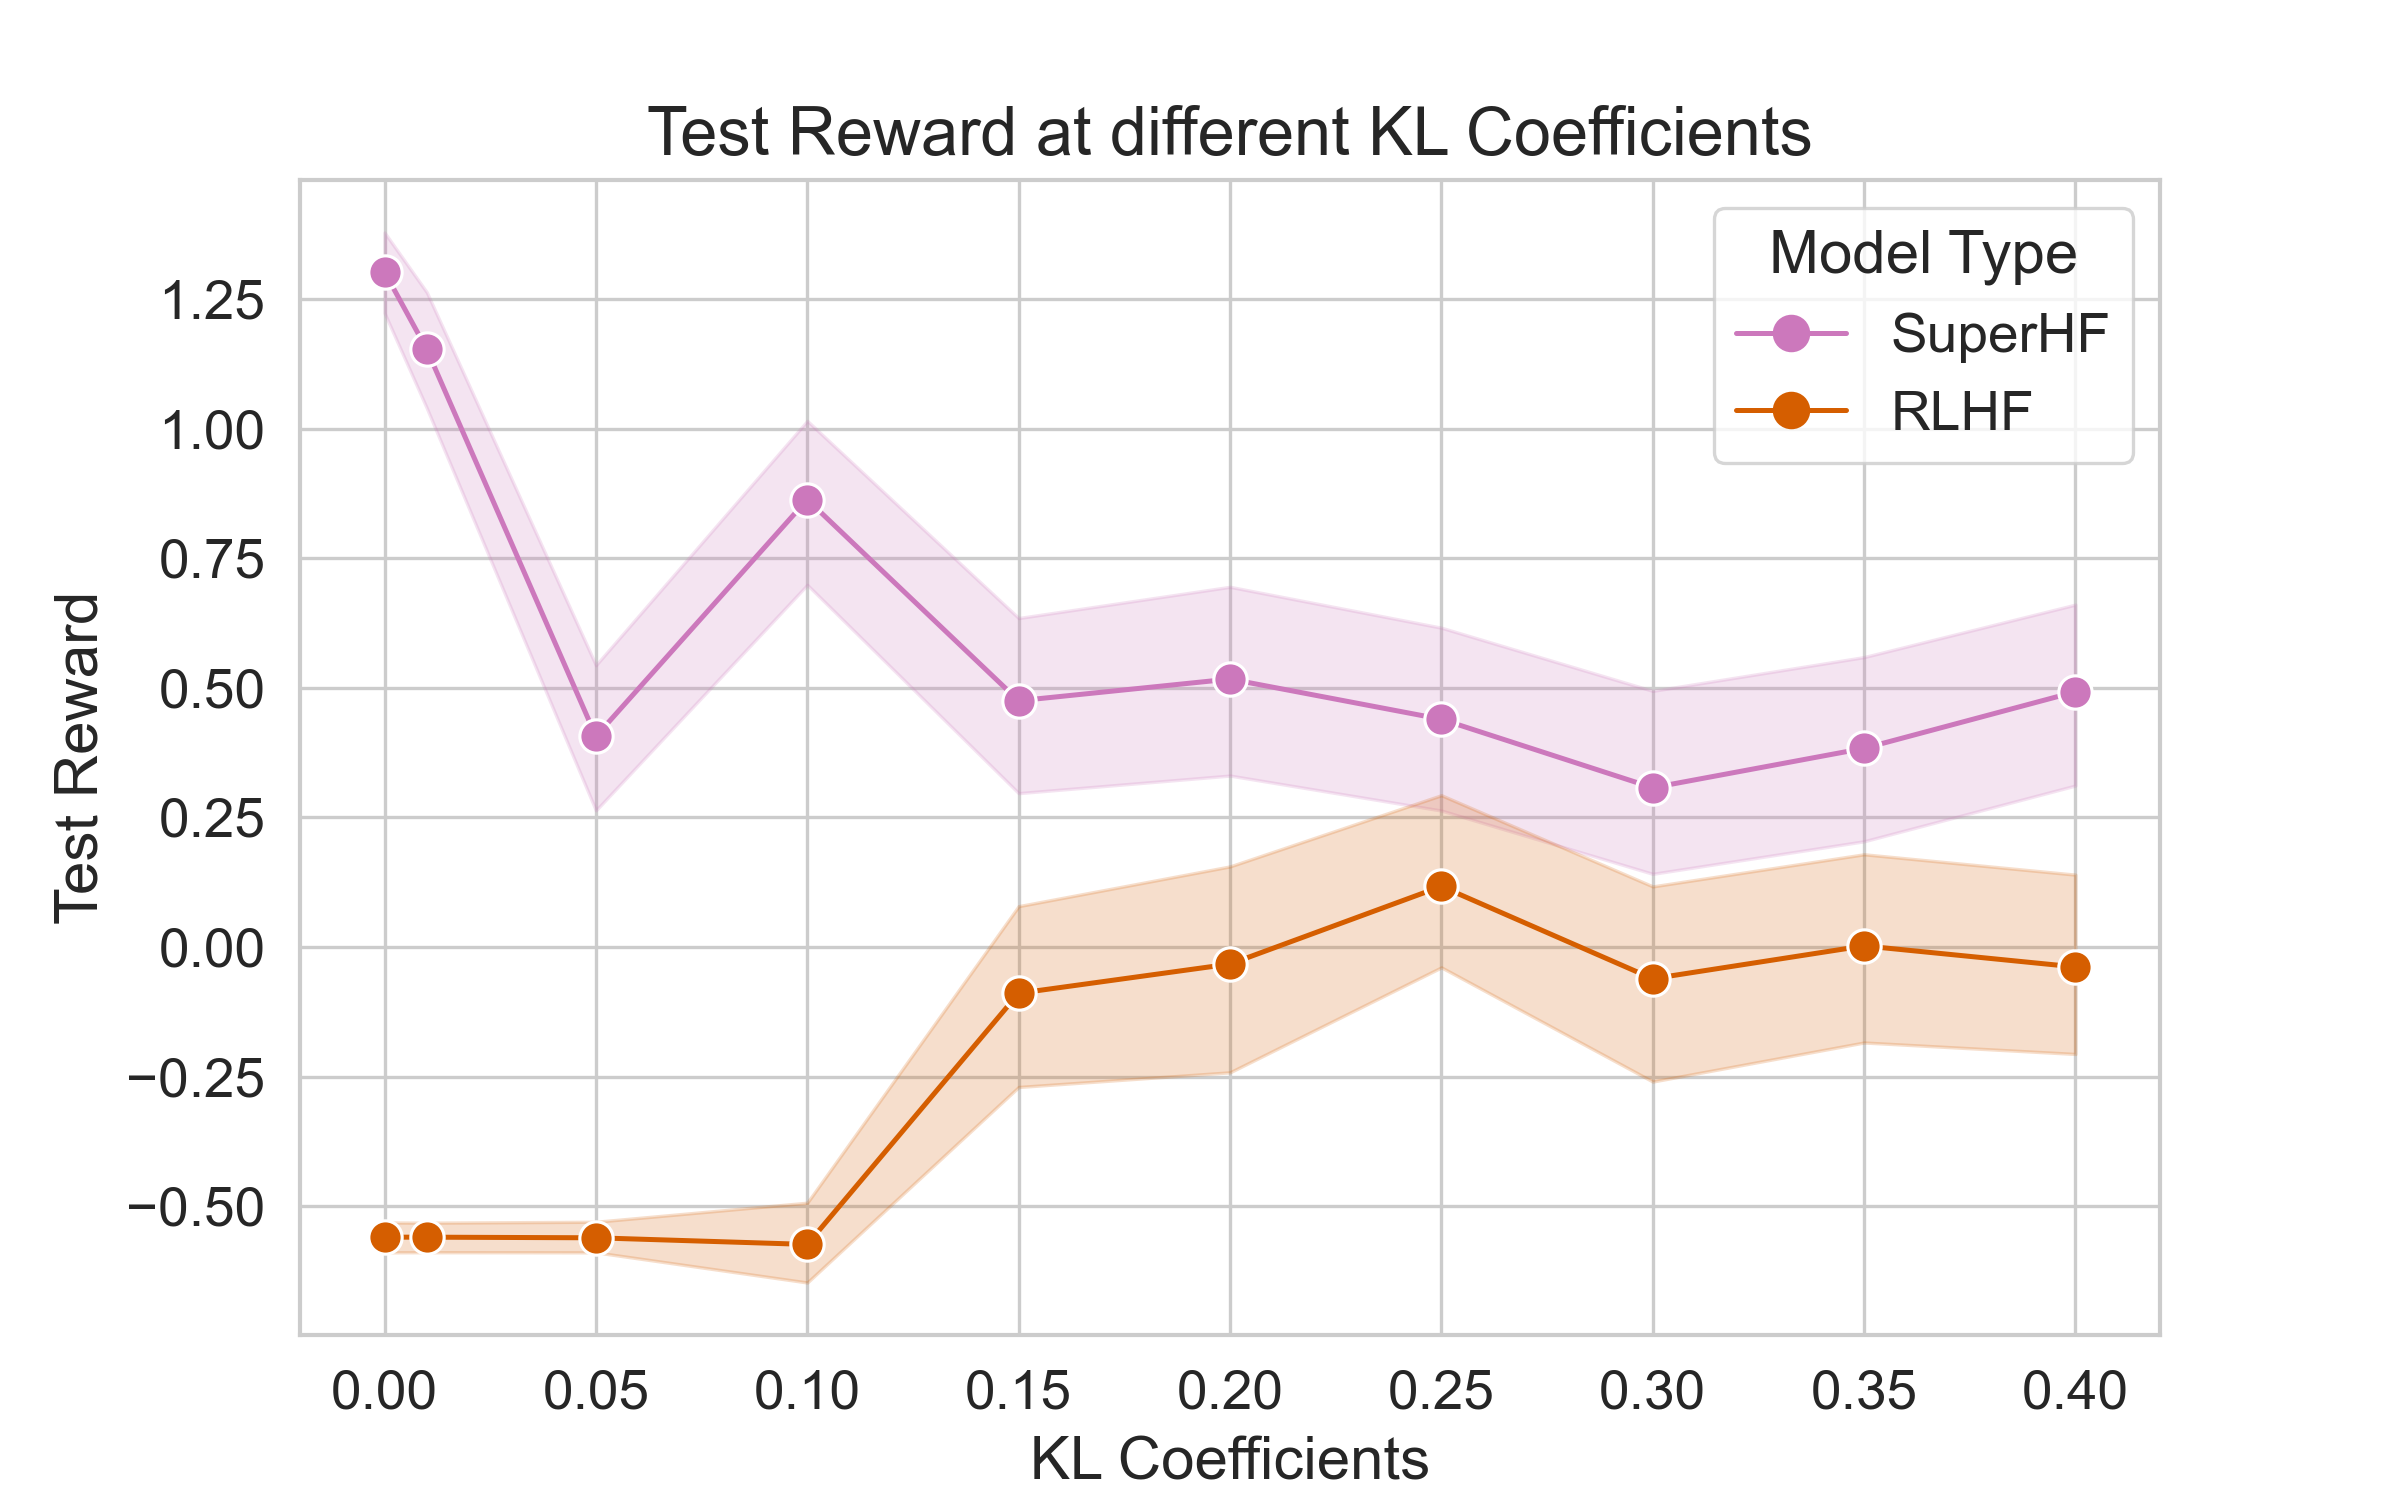
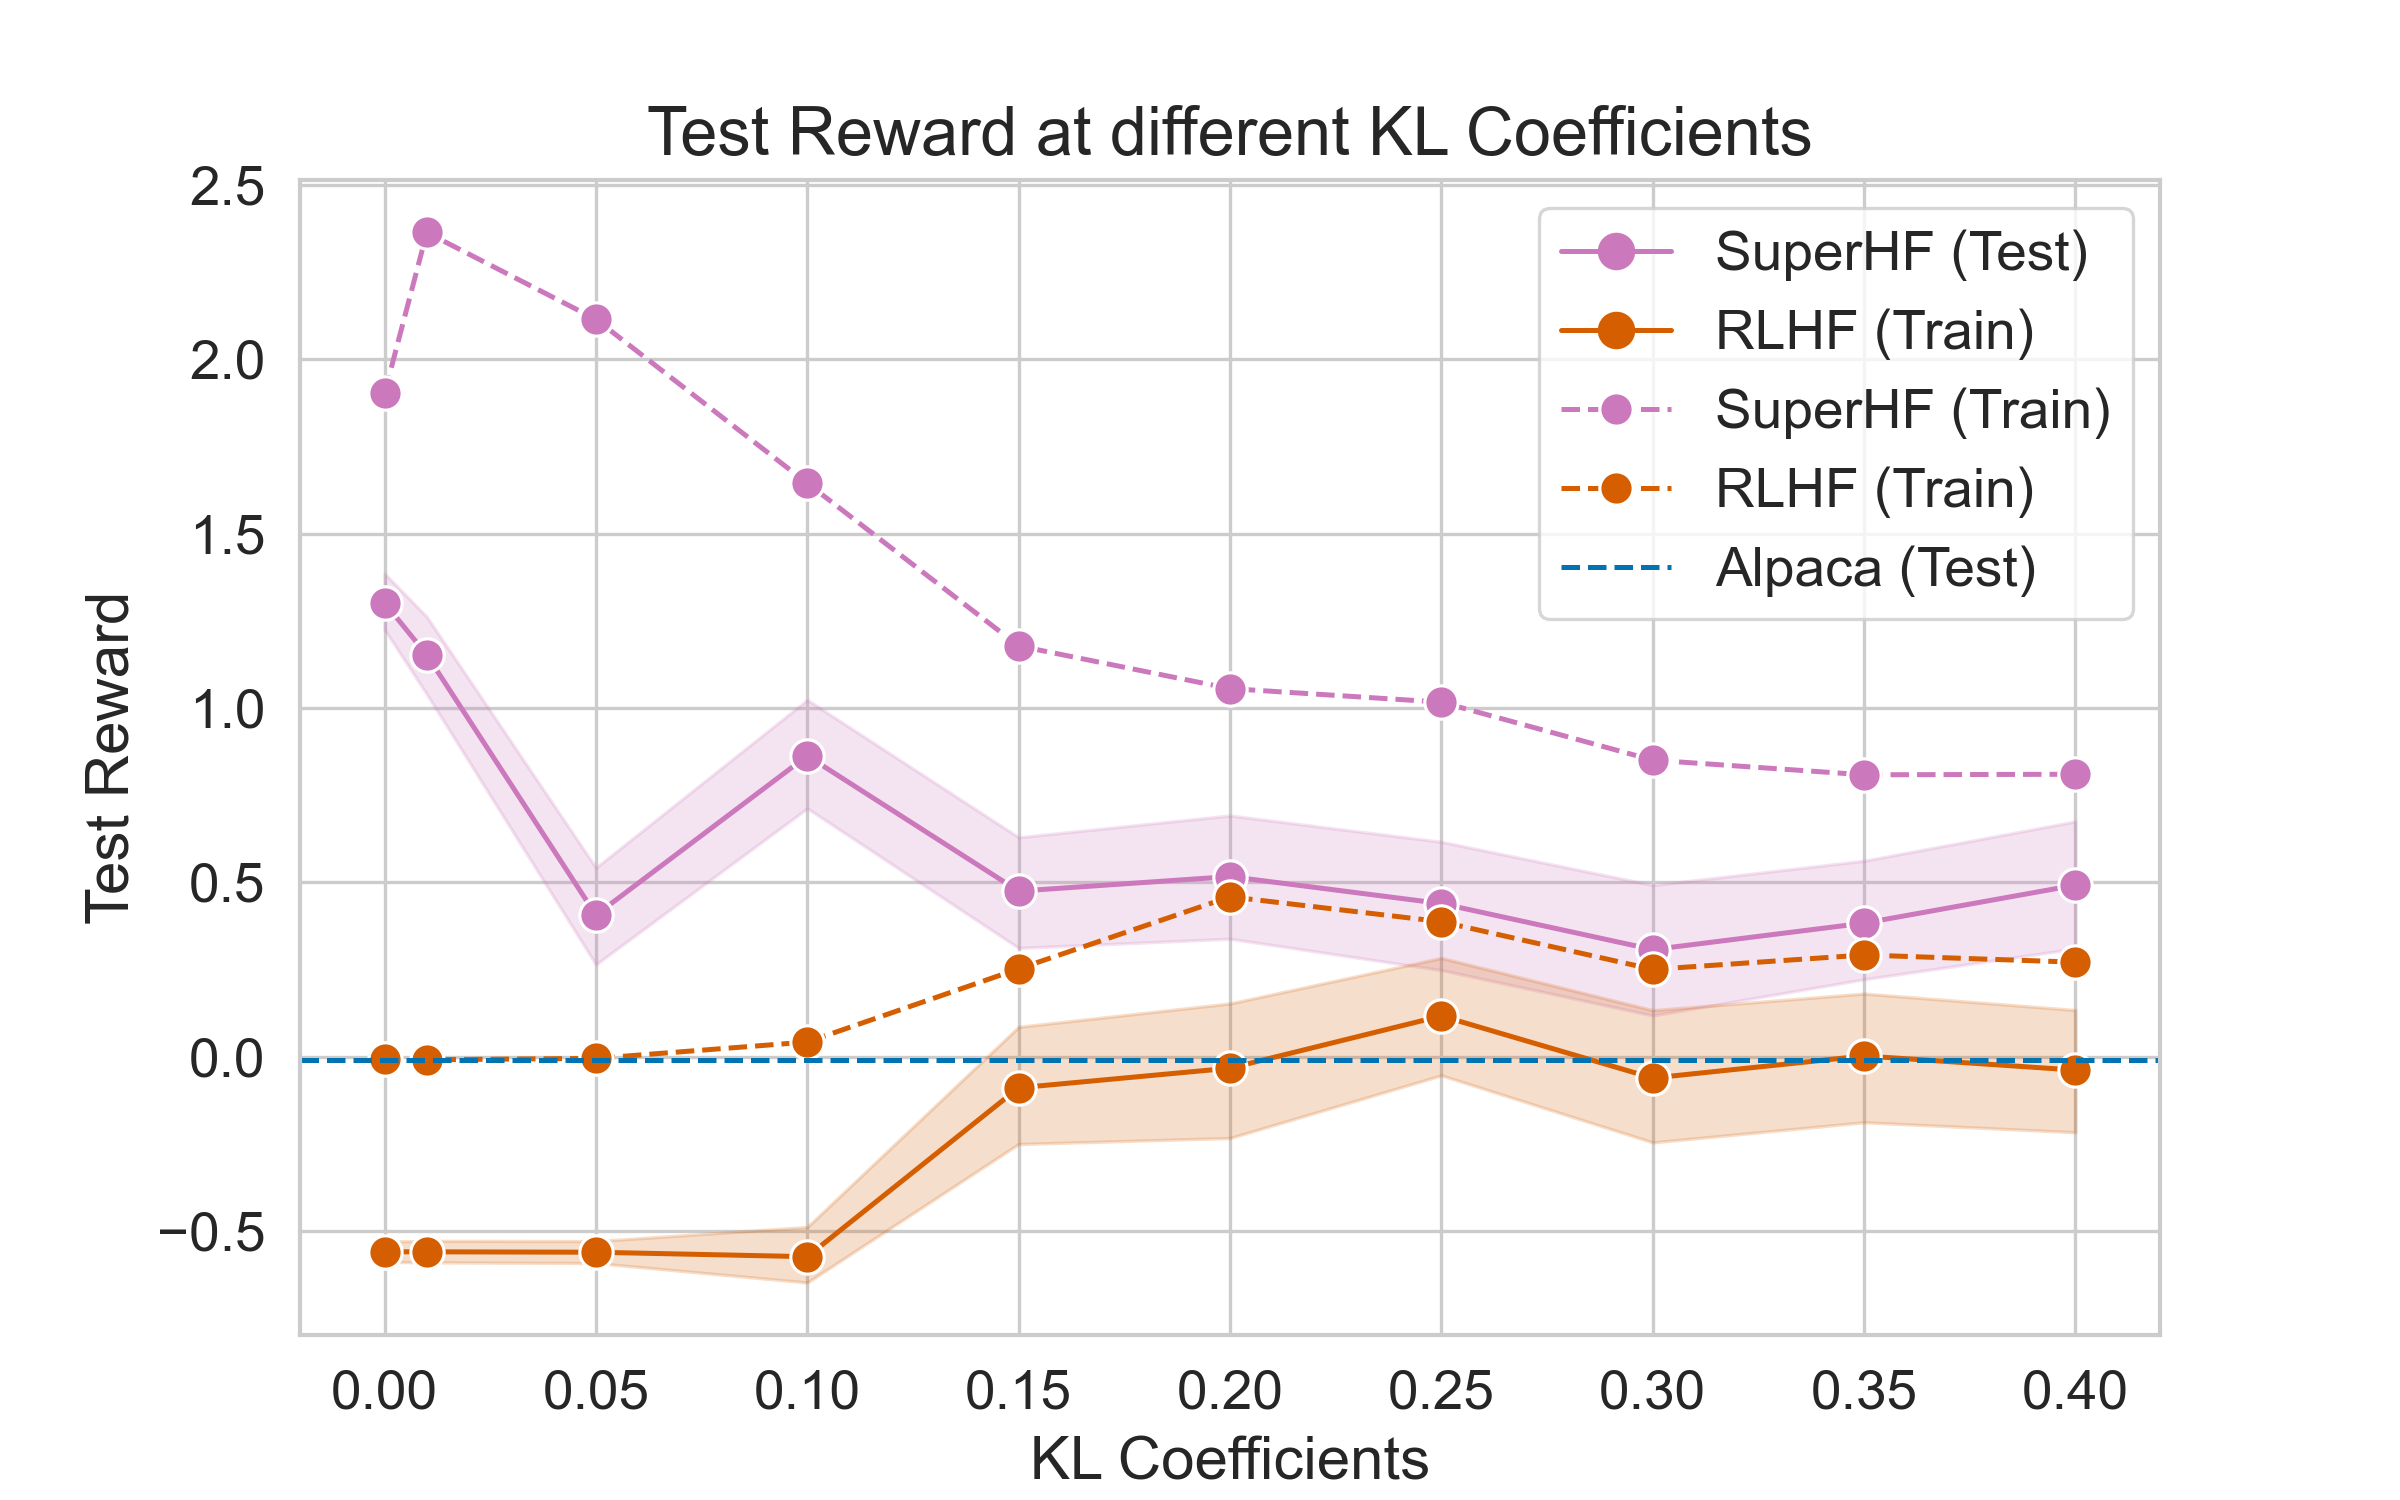
KL chart add alpaca and train rewards

diff --git a/charts/kl_coefficient.py b/charts/kl_coefficient.py
@@ -9,6 +9,8 @@ from chart_utils import (
     model_type_to_palette_color,
     get_test_scores,
     save_plot,
+    normalize_train_scores,
+    ALPACA_TEST_REWARD,
 )
 
 
@@ -33,7 +35,7 @@ def main() -> None:
         url = f"experiments/evaluations/test_scores/shf-7b-kl-{kl_coefficient}.json"
         scores = get_test_scores(url)
 
-        all_data.extend([(kl_coefficient, score, "SuperHF") for score in scores])
+        all_data.extend([(kl_coefficient, score, "SuperHF (Test)") for score in scores])
 
         url2 = (
             f"experiments/evaluations/test_scores/rlhf-v3-kl-sweep-kl-{kl_coefficient}"
@@ -41,7 +43,7 @@ def main() -> None:
         )
 
         scores2 = get_test_scores(url2)
-        all_data2.extend([(kl_coefficient, score, "RLHF") for score in scores2])
+        all_data2.extend([(kl_coefficient, score, "RLHF (Train)") for score in scores2])
 
     dataframe = pd.DataFrame(
         all_data, columns=["KL Coefficients", "Test Reward", "Model Type"]
@@ -65,6 +67,58 @@ def main() -> None:
         ],
         errorbar="ci",
     )
+
+    # Plot train rewards
+    train_rewards_raw_shf = [
+        -0.2569,
+        0.3234,
+        0.01028,
+        -0.581,
+        -1.168,
+        -1.322,
+        -1.371,
+        -1.58,
+        -1.633,
+        -1.631,
+    ]
+    test_rewards_raw_rlhf = [
+        -2.657,
+        -2.661,
+        -2.656,
+        -2.597,
+        -2.333,
+        -2.073,
+        -2.163,
+        -2.335,
+        -2.283,
+        -2.309,
+    ]
+    train_rewards_normalized_shf = normalize_train_scores(train_rewards_raw_shf)
+    test_rewards_normalized_rlhf = normalize_train_scores(test_rewards_raw_rlhf)
+    sns.lineplot(
+        x=kl_coefficients,
+        y=train_rewards_normalized_shf,
+        color=model_type_to_palette_color("SuperHF"),
+        label="SuperHF (Train)",
+        linestyle="--",
+    )
+    sns.lineplot(
+        x=kl_coefficients,
+        y=test_rewards_normalized_rlhf,
+        color=model_type_to_palette_color("RLHF"),
+        label="RLHF (Train)",
+        linestyle="--",
+    )
+
+    # Add Alpaca Test (horizontal line at -0.01)
+    plt.axhline(
+        y=ALPACA_TEST_REWARD,
+        color=model_type_to_palette_color("pretrained"),
+        linestyle="--",
+        label="Alpaca (Test)",
+        marker="",
+    )
+    plt.legend()
 
     # Set labels and title
     plt.xlabel("KL Coefficients")

diff --git a/charts/chart_utils.py b/charts/chart_utils.py
@@ -34,6 +34,8 @@ QUALITATIVE_MODEL_ORDER = [
     "GPT-4",
 ]
 
+ALPACA_TEST_REWARD = -0.01
+
 
 def bootstrapped_stdev(data: list[Any], num_samples: int = 1000) -> Any:
     """
@@ -145,6 +147,10 @@ def model_type_to_palette_color(model_type: str) -> Any:
     """Standardize our use of models types to palette colors."""
     # TODO change to dict[str, int] and add final run names as options
     model_type = model_type.lower()
+    if "superhf" in model_type:
+        model_type = "superhf"
+    if "rlhf" in model_type:
+        model_type = "rlhf"
     all_model_types = [
         "pretrained",
         "instruct",
